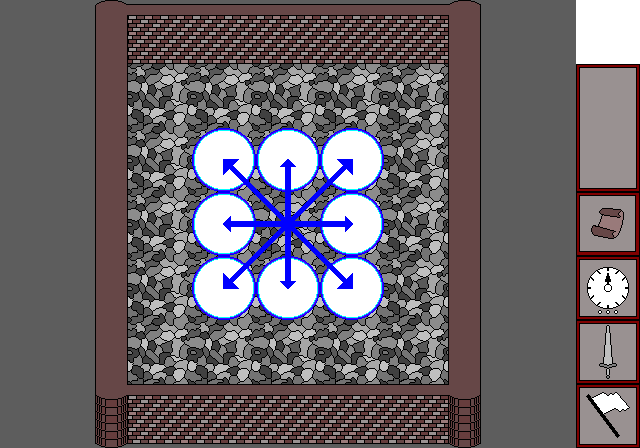
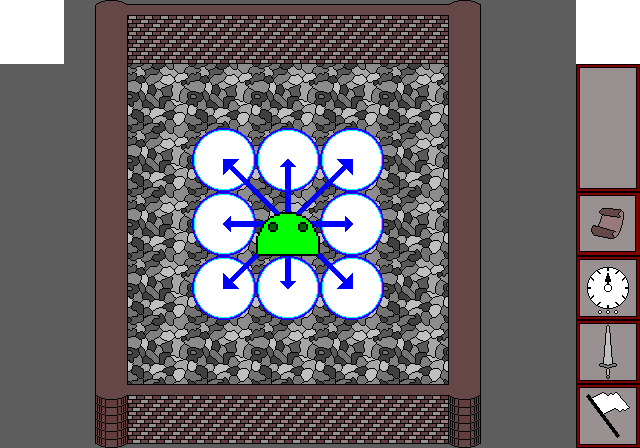
.....

Changed region(s): [[0.0, 0.0, 0.125, 0.1562], [0.375, 0.4688, 0.5, 0.5938]]

diff --git a/core/src/com/dungeon_escape/GameScreen.java b/core/src/com/dungeon_escape/GameScreen.java
@@ -785,7 +785,7 @@ public class GameScreen extends ScreenAdapter {
 
                     game.gameBatch.draw(game.tip3, game.leftBorderX + game.horizontalOtstup, game.leftBorderY + game.verticalOtstup, game.size * 10, game.size * 7);
                     if (game.isEnglish){
-
+                        game.tipsFont.draw(game.gameBatch, "A hero in a move can move to one of the neighbors of the cages."+"\n"+"To do this, you need to click on the cage to which you want to move.", game.horizontalOtstup+game.leftBorderX + game.size * 0, game.verticalOtstup + game.leftBorderY + game.size * 0.8f);
                     }
                     else {
                         game.tipsFont.draw(game.gameBatch, "Персонаж за ход может переместиться на одну из соседник клеток."+"\n"+"Для этого нужно нажать на клетку на которую вы хотите переместиться.", game.horizontalOtstup+game.leftBorderX + game.size * 0, game.verticalOtstup + game.leftBorderY + game.size * 0.8f);
@@ -794,7 +794,7 @@ public class GameScreen extends ScreenAdapter {
                 case 4:
                     game.gameBatch.draw(game.tip4, game.leftBorderX + game.horizontalOtstup, game.leftBorderY + game.verticalOtstup, game.size * 10, game.size * 7);
                     if (game.isEnglish){
-
+                        game.tipsFont.draw(game.gameBatch, "A hero in a move can attack one of the neighbors of the cages. This requires"+"\n"+"press the attack button and then the cage you want to attack."+"\n"+"If there is no enemy or lever in it, nothing will happen and the move will not be spent.", game.horizontalOtstup+game.leftBorderX + game.size * 0, game.verticalOtstup + game.leftBorderY + game.size * 1f);
                     }
                     else {
                         game.tipsFont.draw(game.gameBatch, "Персонаж за ход может атаковать одну из соседник клеток. Для этого нужно"+"\n"+"нажать кнопку атаки, а затем на клетку, которую вы хотите атаковать."+"\n"+"Если в ней нет врага или рычага ничего не произойдет и ход не потратится.", game.horizontalOtstup+game.leftBorderX + game.size * 0, game.verticalOtstup + game.leftBorderY + game.size * 1f);
@@ -802,9 +802,21 @@ public class GameScreen extends ScreenAdapter {
                     break;
                 case 5:
                     game.gameBatch.draw(game.tip5, game.leftBorderX + game.horizontalOtstup, game.leftBorderY + game.verticalOtstup, game.size * 10, game.size * 7);
+                    if (game.isEnglish){
+                        game.tipsFont.draw(game.gameBatch, "A slime in a move can move to one of the neighbors of the cages."+"\n"+"Unlike the player, he can also move diagonally.", game.horizontalOtstup+game.leftBorderX + game.size * 0, game.verticalOtstup + game.leftBorderY + game.size * 0.8f);
+                    }
+                    else {
+                        game.tipsFont.draw(game.gameBatch, "Слайм за ход может переместиться на одну из соседник клеток."+"\n"+"В отличии от игрока он также может перемещаться по диагонали.", game.horizontalOtstup+game.leftBorderX + game.size * 0, game.verticalOtstup + game.leftBorderY + game.size * 0.8f);
+                    }
                     break;
                 case 6:
                     game.gameBatch.draw(game.tip6, game.leftBorderX + game.horizontalOtstup, game.leftBorderY + game.verticalOtstup, game.size * 10, game.size * 7);
+                    if (game.isEnglish){
+                        game.tipsFont.draw(game.gameBatch, "Slime in a move can attack within a radius of two cages."+"\n"+"Also, the slime charge of the slime can fly over the door.", game.horizontalOtstup+game.leftBorderX + game.size * 0, game.verticalOtstup + game.leftBorderY + game.size * 0.8f);
+                    }
+                    else {
+                        game.tipsFont.draw(game.gameBatch, "Слайм за ход может атаковать в радиусе двух клеток."+"\n"+"Также слизь слайма может перелетать над дверями.", game.horizontalOtstup+game.leftBorderX + game.size * 0, game.verticalOtstup + game.leftBorderY + game.size * 0.8f);
+                    }
                     break;
             }
             game.gameBatch.draw(game.arrowNext, game.leftBorderX + game.horizontalOtstup, game.leftBorderY + game.verticalOtstup + game.size*6, game.size, game.size);
